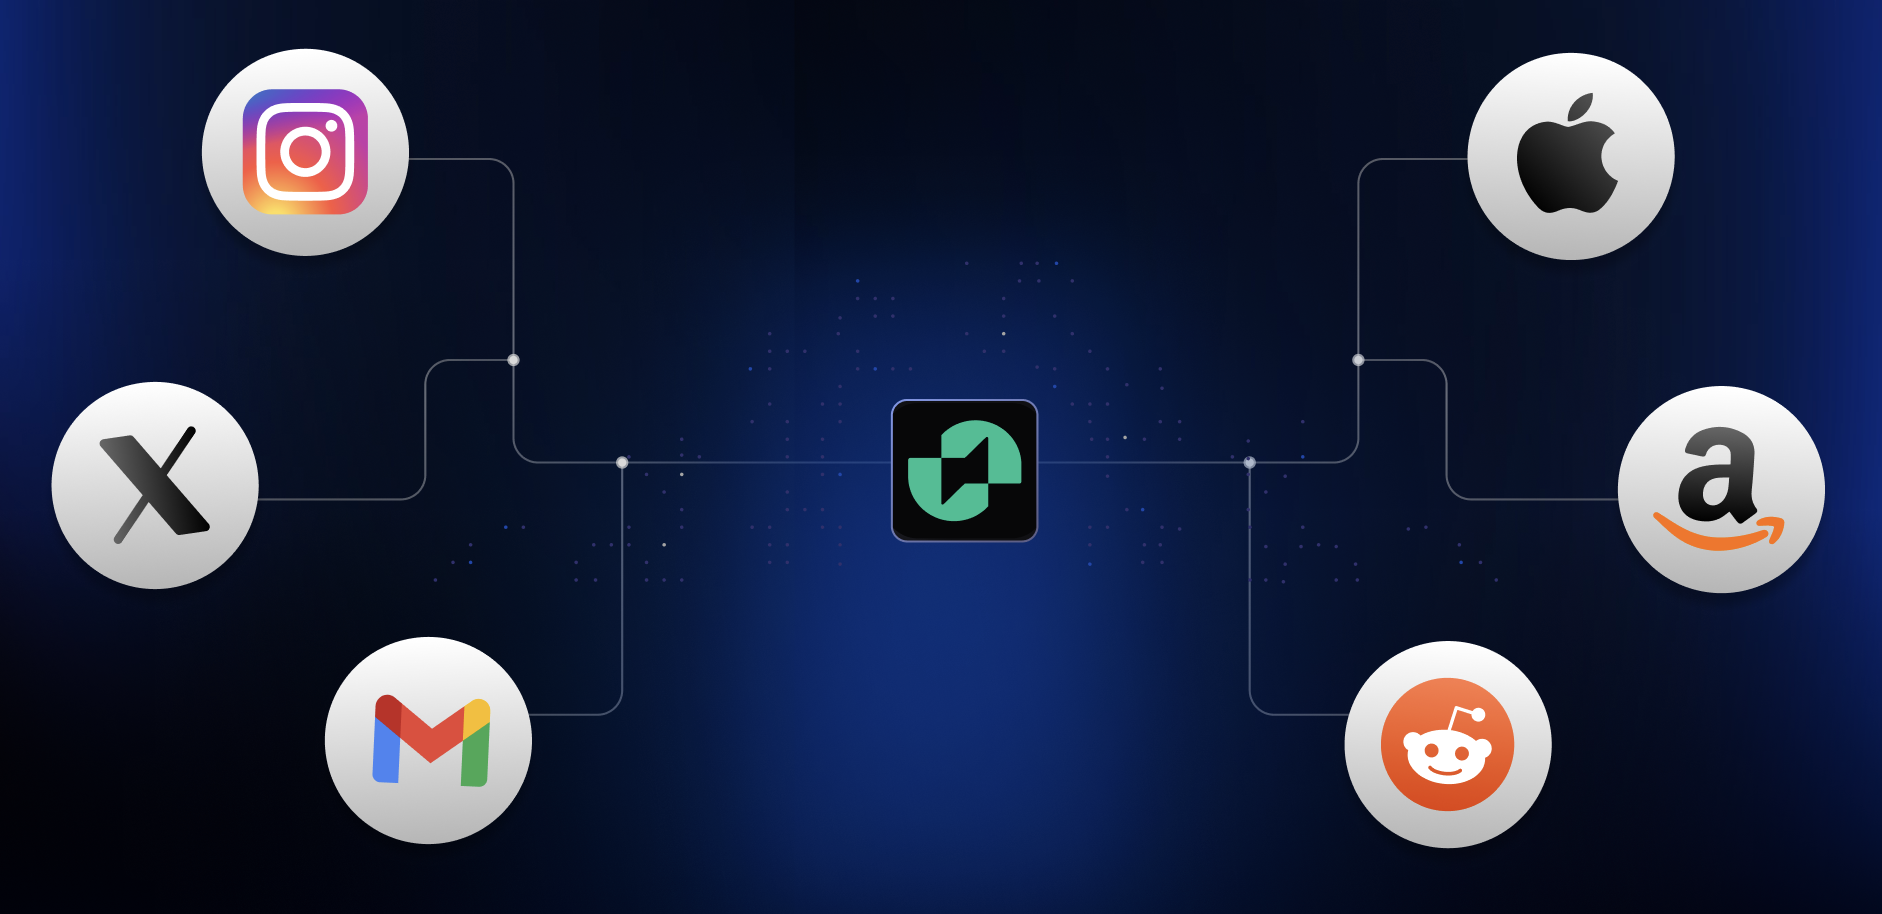
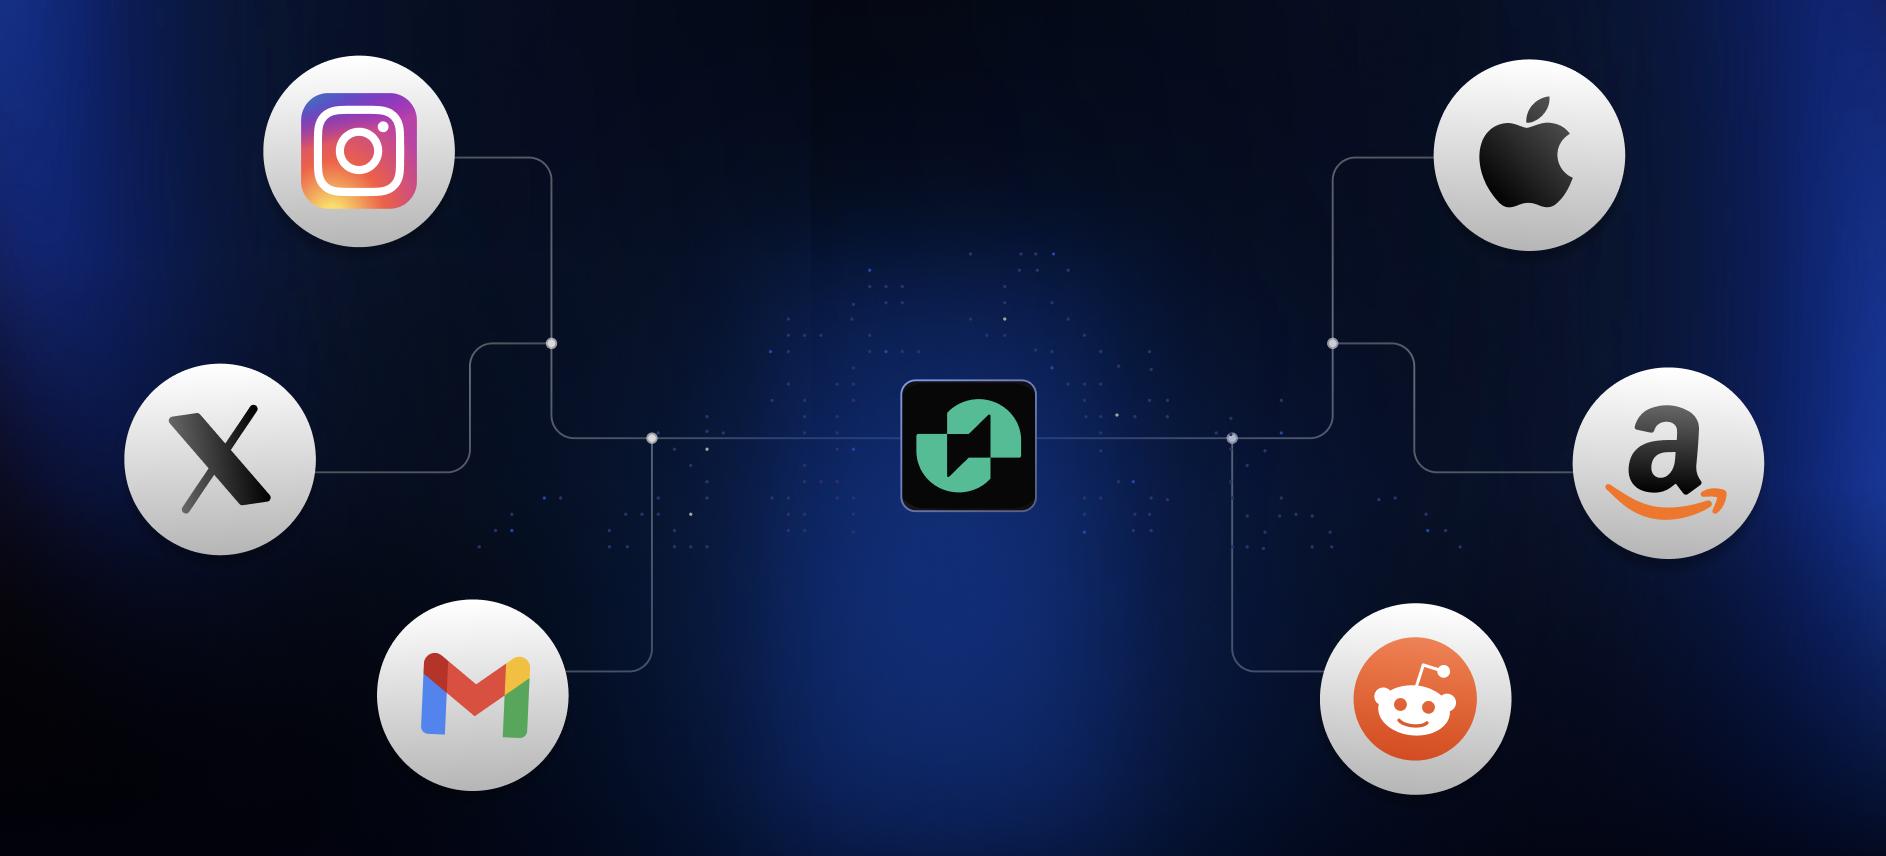
Finished hero section

diff --git a/src/components/HeroSection.tsx b/src/components/HeroSection.tsx
@@ -7,11 +7,11 @@ const HeroSection: React.FC = () => {
   return (
     <Box sx={{ flexGrow: 1, display: 'flex', alignItems: 'center', justifyContent: 'center', marginTop: '64px' }}>
       <Container maxWidth="lg" sx={{ textAlign: 'center' }}>
-        <Typography variant="h2" gutterBottom color="white" paddingLeft={'120px'} paddingRight={'120px'}>
+        <Typography variant="h3" gutterBottom color="white" paddingLeft={'220px'} paddingRight={'220px'}>
           Allow anyone to generate ZkProofs to any internet
         </Typography>
-        <Box sx={{ margin: '20px 0' }}>
-          <img src={hero} alt="Hero" width={1200} height={600}/>
+        <Box sx={{ marginLeft: '64px', marginTop: '24px', marginBottom: '44px', borderRadius: '44px', border: '1px solid #B0B0B0', overflow: 'hidden', width: '943px', height: '428px' }}>
+          <img src={hero} alt="Hero" width={943} height={428}/>
         </Box>
         <Button
           variant="contained"

diff --git a/src/components/Footer.tsx b/src/components/Footer.tsx
@@ -1,21 +1,13 @@
-// src/components/Footer.tsx
 import React from 'react';
 import { Box, Typography } from '@mui/material';
-import styled from 'styled-components';
-
-const FooterContainer = styled(Box)`
-  background: #0f2027;
-  color: white;
-  padding: 20px 0;
-`;
 
 const Footer: React.FC = () => {
   return (
-    <FooterContainer>
+    <Box sx={{ padding: 2, background: 'transparent', color: 'white', textAlign: 'center', marginTop: '40px' }}>
       <Typography variant="body2" align="center">
         &copy; {new Date().getFullYear()} Zap. All rights reserved.
       </Typography>
-    </FooterContainer>
+    </Box>
   );
 };
 

diff --git a/src/components/Header.tsx b/src/components/Header.tsx
@@ -32,8 +32,11 @@ const Header: React.FC = () => {
           <Box
             sx={{
               backgroundColor: "rgba(255, 255, 255, 0.08)",
-              padding: "5px 10px",
+              padding: "5px 20px",
               borderRadius: "30px",
+              borderWidth: "0.8px",
+              borderColor: "gray",
+              borderStyle: "solid",
               display: "flex",
               justifyContent: "center",
               gap: 2,

diff --git a/src/App.tsx b/src/App.tsx
@@ -4,7 +4,7 @@ import LandingPage from "./pages/LandingPage";
 import styled from "styled-components";
 
 const Background = styled(Box)`
-  background: linear-gradient(135deg, #000000, #00000f, #00000f, #0000ff, #00000f, #000000, #000000);
+  background: linear-gradient(135deg, #000000, #090953, #000000, #00000f, #090953, #000000, #000000);
   min-height: 100vh;
   display: flex;
   flex-direction: column;
